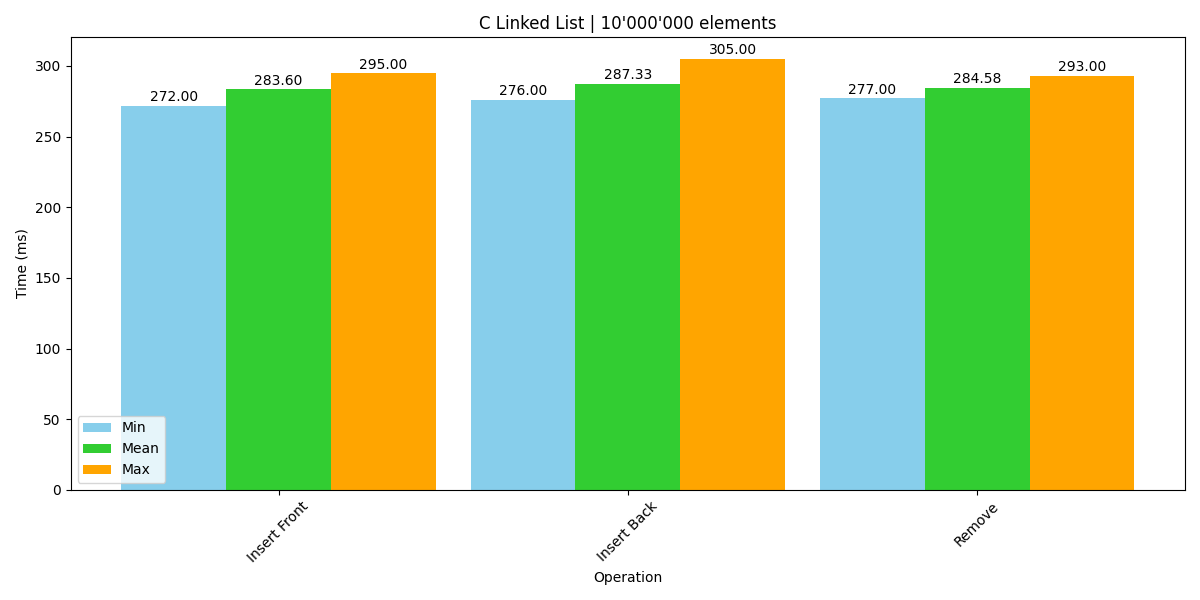
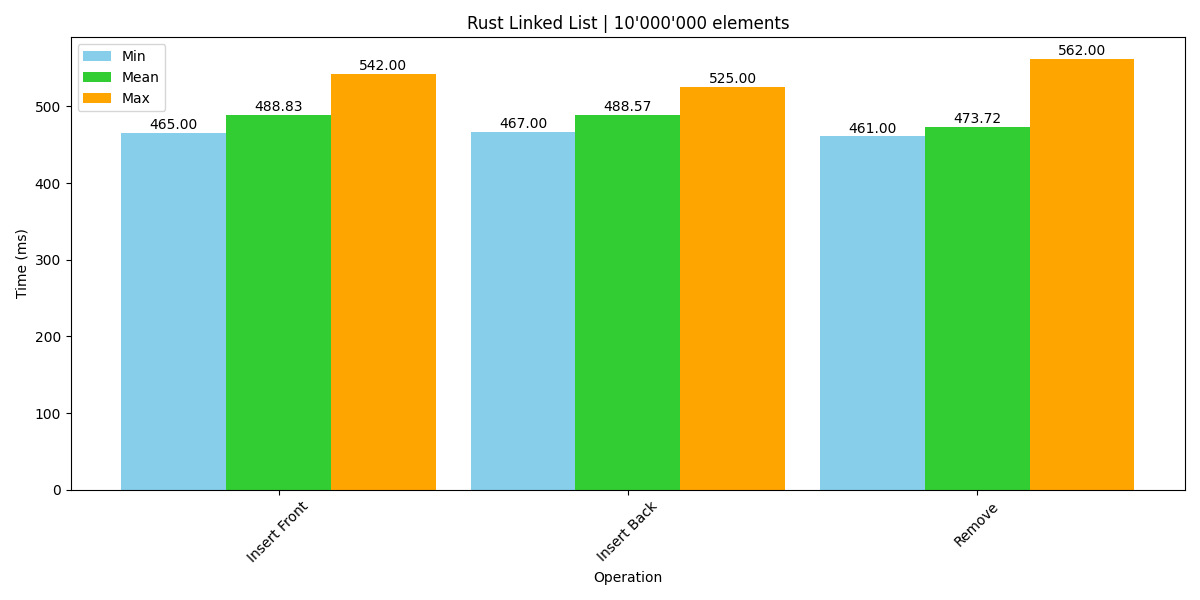
Updated mutex test

diff --git a/Locking/Mutex/log_analyzer.py b/Locking/Mutex/log_analyzer.py
@@ -1,0 +1,61 @@
+import re
+import numpy as np
+import matplotlib.pyplot as plt
+
+def process_log(log_data):
+    # Regex pattern for extracting total lock/unlock times
+    total_time_pattern = r"Total lock/unlock time: (\d+) ms"
+
+    # Extract times using regex
+    total_times = [int(m.group(1)) for m in re.finditer(total_time_pattern, log_data)]
+
+    # Compute statistics
+    min_time = np.min(total_times)
+    max_time = np.max(total_times)
+    avg_time = np.mean(total_times)
+
+    return total_times, min_time, max_time, avg_time
+
+def plot_statistics(total_times, min_time, max_time, avg_time):
+    # Create the plot
+    plt.figure(figsize=(10, 6))
+    entries = list(range(1, len(total_times) + 1))
+    plt.plot(entries, total_times, marker="o", label="Total Lock/Unlock Time (ms)")
+
+    # Add horizontal lines for min, max, and avg
+    plt.axhline(y=min_time, color="g", linestyle="--", label=f"Min: {min_time} ms")
+    plt.axhline(y=max_time, color="r", linestyle="--", label=f"Max: {max_time} ms")
+    plt.axhline(y=avg_time, color="b", linestyle="--", label=f"Avg: {avg_time:.2f} ms")
+
+    # Annotate points with values
+    for i, time in enumerate(total_times):
+        plt.annotate(f"{time}ms", (entries[i], time), textcoords="offset points", xytext=(0, 10), ha="center")
+
+    plt.xlabel("Test Entry")
+    plt.ylabel("Total Lock/Unlock Time (ms)")
+    plt.title("Mutex Lock/Unlock Total Time")
+    plt.legend()
+    plt.grid(True)
+    plt.tight_layout()
+
+    # Save the plot
+    plt.savefig("mutex_benchmark_plot.png")
+    print("Plot saved as 'mutex_benchmark_plot.png'.")
+
+# Main function
+if __name__ == "__main__":
+    # Read the log file
+    log_file_path = "log.txt"  # Replace with the actual path
+    with open(log_file_path, "r") as file:
+        log_data = file.read()
+
+    # Process the log data
+    total_times, min_time, max_time, avg_time = process_log(log_data)
+
+    # Print statistics
+    print(f"Total Lock/Unlock Time (ms): {total_times}")
+    print(f"Min Time: {min_time} ms, Max Time: {max_time} ms, Avg Time: {avg_time:.2f} ms")
+
+    # Generate the plot (saved only, not shown)
+    plot_statistics(total_times, min_time, max_time, avg_time)
+

diff --git a/Locking/Mutex/C/mutex_benchmark.c b/Locking/Mutex/C/mutex_benchmark.c
@@ -8,22 +8,38 @@ MODULE_LICENSE("GPL");
 MODULE_AUTHOR("Luca Saverio Esposito");
 MODULE_DESCRIPTION("Mutex Lock/Unlock Performance Test");
 
-#define NUM_ITERATIONS 1000000
+#define NUM_ITERATIONS 15000000
+#define NUM_EXECUTION 30
+
+
+int mutex_benchmark_test(int count);
+EXPORT_SYMBOL(mutex_benchmark_test);
 
 static struct mutex test_mutex;
 
 static int __init mutex_test_init(void)
 {
+    int ret;
+
+    pr_info("C-Mutex-Benchmark: Initializing Mutex Lock/Unlock Performance Test...\n");
+
+    pr_info("C-Mutex-Benchmark: Number of iterations: %d\n", NUM_ITERATIONS);
+    
+    // Initialize the mutex
+    mutex_init(&test_mutex);
+
+    for (int i = 0; i< NUM_EXECUTION; i++){
+        ret = mutex_benchmark_test(i);
+    }
+    return ret;
+}
+
+int mutex_benchmark_test(int count){
     ktime_t start, end, lock_start, lock_end;
     s64 total_time_ms = 0, lock_time_ns = 0;
     s64 min_time_ns = LLONG_MAX, max_time_ns = 0;
     s64 elapsed_ns;
     int i;
-
-    pr_info("C-Mutex-Benchmark: Initializing Mutex Lock/Unlock Performance Test...\n");
-
-    // Initialize the mutex
-    mutex_init(&test_mutex);
 
     // Record start time
     start = ktime_get();
@@ -50,7 +66,7 @@ static int __init mutex_test_init(void)
     total_time_ms = ktime_to_ms(ktime_sub(end, start));
 
     // Log results
-    pr_info("C-Mutex-Benchmark: Mutex Test Completed\n");
+    pr_info("C-Mutex-Benchmark: Mutex Test %d Completed\n", count+1);
     pr_info("C-Mutex-Benchmark: Total time: %lld ms\n", total_time_ms);
     pr_info("C-Mutex-Benchmark: Total lock/unlock time: %lld ms\n", ktime_to_ms(lock_time_ns));
     pr_info("C-Mutex-Benchmark: Average time per lock/unlock: %lld ns\n", lock_time_ns / NUM_ITERATIONS);

diff --git a/LinkedList/result_analyzer.py b/LinkedList/result_analyzer.py
@@ -63,7 +63,7 @@ def plot_statistics(insert_front, insert_back, remove):
     # Customization
     plt.xlabel("Operation")
     plt.ylabel("Time (ms)")
-    plt.title("C Linked List | 10'000'000 elements")
+    plt.title("Rust Linked List | 10'000'000 elements")
     plt.xticks(x, labels, rotation=45)
     plt.legend()
     plt.tight_layout()
